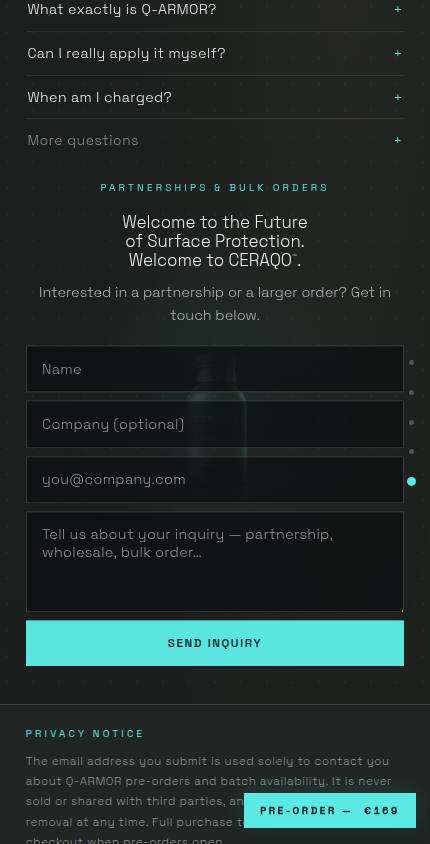
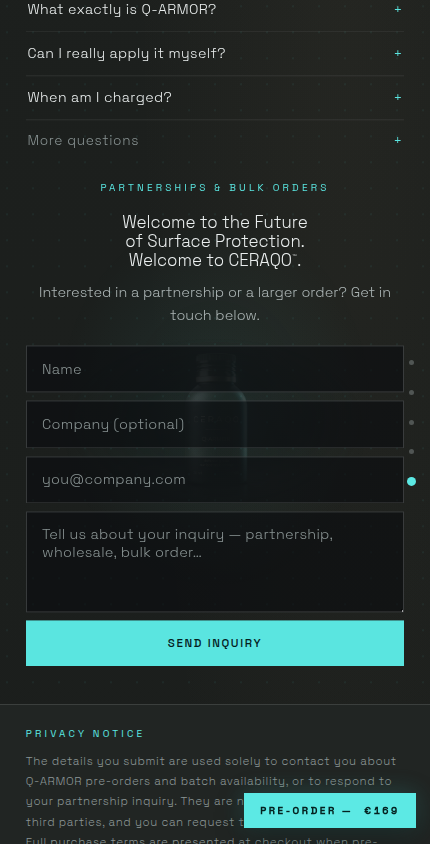
Copy corrections: de-silane, 6-year framing, email-less pre-order block
- "silane" removed site-wide: category prose and FAQ now read "a newly
  developed product ..."; meta description updated; README aligned.
- Every "72 months" is now "6 years" (gauge value/unit/label, compare
  row, footnote, lattice zone caption, FAQ answer); asterisk footnotes
  kept. Competitor "24-60 months" row intentionally untouched.
- Pre-order block (Batch 001, after pricing): email field removed
  entirely. With PREORDER_URL set the direct checkout link renders as
  before; while it is empty the button renders disabled with
  "Pre-orders for Batch 001 open shortly — payment is taken at
  checkout." No email-capture code or copy remains there; the
  partnership form at the bottom is untouched.
- Bottle-label wording (30ml / defense-grade / n° 001) confirmed baked
  into the rendered imagery, not DOM text — no code change possible;
  affected files reported separately.
- QA retuned: email-less pre-order assertions, privacy test via
  footer link, buy-button count, 6-year copy manifest. 24/24 pass.

Claude-Session: https://claude.ai/code/session_01KBNgdLRVpeefJZbYuM7ETb

Changed region(s): [[0.0605, 0.8934, 0.907, 1.0]]

diff --git a/src/components/PostDive.tsx b/src/components/PostDive.tsx
@@ -106,7 +106,7 @@ const COMPARE_ROWS: { label: string; q: string; pro: string }[] = [
   },
   {
     label: 'Protection window',
-    q: 'Up to 72 months*',
+    q: 'Up to 6 years*',
     pro: 'Commonly 24–60 months, tier dependent',
   },
   {
@@ -124,7 +124,7 @@ const COMPARE_ROWS: { label: string; q: string; pro: string }[] = [
 const FAQ_PRIMARY: { q: string; a: string }[] = [
   {
     q: 'What exactly is Q-ARMOR?',
-    a: 'A newly developed silane chemistry — not a wax, not another ceramic coating. It bonds with your paint and outperforms premium ceramic coatings in hardness and durability.',
+    a: 'A newly developed product — not a wax, not another ceramic coating. It bonds with your paint and outperforms premium ceramic coatings in hardness and durability.',
   },
   {
     q: 'Can I really apply it myself?',
@@ -134,14 +134,14 @@ const FAQ_PRIMARY: { q: string; a: string }[] = [
     q: 'When am I charged?',
     a: PREORDER_URL
       ? 'At checkout, the moment you place your pre-order. Your order secures your spot in Batch 001.'
-      : 'At checkout, once pre-orders open. Until then, your email holds your place in Batch 001.',
+      : 'At checkout, once pre-orders open for Batch 001.',
   },
 ];
 
 const FAQ_MORE: { q: string; a: string }[] = [
   {
     q: 'How long does the protection last?',
-    a: 'Up to 72 months, depending on preparation, environment and washing routine.',
+    a: 'Up to 6 years, depending on preparation, environment and washing routine.',
   },
   {
     q: 'How hard is the cured layer?',
@@ -239,9 +239,6 @@ function BuyButton() {
 
 export default function PostDive() {
   const rootRef = useRef<HTMLDivElement>(null);
-  const [email, setEmail] = useState('');
-  const [joined, setJoined] = useState(false);
-  const [error, setError] = useState<string | null>(null);
   const [rowsOpen, setRowsOpen] = useState(startOpen);
   const [fitOpen, setFitOpen] = useState(startOpen);
   const [factorsOpen, setFactorsOpen] = useState(startOpen);
@@ -298,24 +295,6 @@ export default function PostDive() {
     return () => ctx.revert();
   }, []);
 
-  const submit = (e: FormEvent) => {
-    e.preventDefault();
-    const ok = /^[^\s@]+@[^\s@]+\.[^\s@]{2,}$/.test(email.trim());
-    if (!ok) {
-      setError('Enter a valid email address.');
-      return;
-    }
-    setError(null);
-    try {
-      const list = JSON.parse(localStorage.getItem('ceraqo-waitlist') ?? '[]') as string[];
-      list.push(email.trim());
-      localStorage.setItem('ceraqo-waitlist', JSON.stringify(list));
-    } catch {
-      /* storage unavailable — the confirmation still stands */
-    }
-    setJoined(true);
-  };
-
   // Placeholder capture: stored in the visitor's browser only until a
   // real destination (inbox / form service) is confirmed and wired.
   const submitInquiry = (e: FormEvent) => {
@@ -354,7 +333,7 @@ export default function PostDive() {
             </p>
             <p className="prose reveal">
               Q-ARMOR changes everything. Not a reformulated wax. Not another ceramic
-              coating. A newly developed silane chemistry that becomes part of your paint —
+              coating. A newly developed product that becomes part of your paint —
               engineered to outperform premium ceramic coatings.
             </p>
             <p className="prose prose--turn reveal">
@@ -397,7 +376,7 @@ export default function PostDive() {
         </h2>
         <div className="specs2">
           <div className="specs2__data stagger">
-            <Gauge frac={1} value="72" unit="months" label="Up to 72 Months Protection*" />
+            <Gauge frac={1} value="6" unit="years" label="Up to 6 Years Protection*" />
             <Gauge frac={1} value="9H" unit="hardness" label="Up to 9H Pencil Hardness" />
           </div>
           <div className="specs2__grid stagger">
@@ -447,8 +426,8 @@ export default function PostDive() {
 
         <div className="footnote reveal">
           <p className="footnote__line">
-            Under suitable conditions, Q-ARMOR is designed to provide protection for up to 72
-            months.<sup className="asterisk">*</sup>
+            Under suitable conditions, Q-ARMOR is designed to provide protection for up to 6
+            years.<sup className="asterisk">*</sup>
           </p>
           <div className="factors__label micro">
             * Dependent factors
@@ -542,37 +521,19 @@ export default function PostDive() {
                 Payment is taken at checkout. Your order secures your spot in Batch 001.
               </p>
             </>
-          ) : joined ? (
-            <div className="waitlist__ok" role="status">
-              You’re on the list for Batch 001. We’ll be in touch before it ships.
-            </div>
           ) : (
+            // No email capture and no live checkout yet: the button
+            // waits, disabled, for the PREORDER_URL switch. Its interim
+            // behaviour is the client's decision — not invented here.
             <>
-              <form className="waitlist__form" onSubmit={submit} noValidate>
-                <input
-                  className="waitlist__input"
-                  type="email"
-                  name="email"
-                  placeholder="you@example.com"
-                  aria-label="Email address"
-                  value={email}
-                  onChange={(e) => setEmail(e.target.value)}
-                  required
-                />
-                <button className="waitlist__btn" type="submit">
-                  Pre-order — €169
-                </button>
-              </form>
-              <p className="waitlist__note" role={error ? 'alert' : undefined}>
-                {error ??
-                  'Payment is taken at checkout once pre-orders open — your email secures your place in Batch 001.'}
+              <button type="button" className="buybtn" disabled>
+                Pre-order — €169
+              </button>
+              <p className="waitlist__note">
+                Pre-orders for Batch 001 open shortly — payment is taken at checkout.
               </p>
             </>
           )}
-          <p className="waitlist__legal">
-            Your address is used only to contact you about Batch 001 — never shared, never
-            sold. <a className="waitlist__legal-link" href="#privacy">Privacy notice</a>
-          </p>
           {!batchOpen && (
             <button type="button" className="expander" onClick={() => setBatchOpen(true)}>
               How the batch model works

diff --git a/qa/scrub.spec.ts b/qa/scrub.spec.ts
@@ -352,7 +352,7 @@ test('post-dive: specs, launch line and waitlist render', async ({ page }) => {
   await page.waitForTimeout(900);
   await expect(page.locator('.scard__label', { hasText: 'Up to 9H Pencil Hardness' })).toBeVisible();
   await expect(page.getByText(/One bottle\. One car\./)).toBeVisible();
-  await expect(page.locator('.preorder .waitlist__btn')).toHaveText('Pre-order — €169');
+  await expect(page.locator('.preorder .buybtn')).toHaveText('Pre-order — €169');
   await page.screenshot({ path: 'qa/post-sections.png', fullPage: false });
 });
 
@@ -454,7 +454,7 @@ test('copy: every approved line is on the page, verbatim', async ({ page }) => {
     'Batch 001',
     'Numbered batches of 20,000 bottles. A new batch every two months.',
     'a production schedule, not artificial scarcity',
-    'Payment is taken at checkout once pre-orders open — your email secures your place in Batch 001.',
+    'Pre-orders for Batch 001 open shortly — payment is taken at checkout.',
     'Before You Pre-order',
     'When am I charged?',
     'Privacy notice',
@@ -464,13 +464,13 @@ test('copy: every approved line is on the page, verbatim', async ({ page }) => {
     'Professional Results. Made for Everyone.',
     'Four steps. About an hour. No experience needed.',
     'That’s all — professional-grade protection has never been this accessible.',
-    'Up to 72 Months Protection*',
+    'Up to 6 Years Protection*',
     'Simple DIY Application',
     'Deep Gloss. Crystal Clear Finish.',
     'No heavy residues. No artificial shine.',
     'Easy Maintenance. Less Cleaning. More Driving.',
     'Water, dirt and oil struggle to stick.',
-    'Under suitable conditions, Q-ARMOR is designed to provide protection for up to 72 months.*',
+    'Under suitable conditions, Q-ARMOR is designed to provide protection for up to 6 years.*',
     'One Kit. Everything Included.',
     'Everything required. Nothing extra.',
     'One kit protects up to two large vehicles.',
@@ -490,7 +490,7 @@ test('copy: every approved line is on the page, verbatim', async ({ page }) => {
     '35–50 ml protects an entire car.',
     'Wipe on. Buff. Cures at ambient temperature.',
     'A covalent bond with the paint. It cannot flake off or be washed off.',
-    'Hardness up to 9H. Effective for up to 72 months.',
+    'Hardness up to 9H. Effective for up to 6 years.',
   ]) {
     await expect(page.locator('.overlay--zone', { hasText: fact })).toHaveCount(1);
   }
@@ -524,9 +524,8 @@ test('inline buy CTA: consistent label everywhere, glides to the pre-order block
   // CTA is the pre-order form's submit button. Every buy control
   // carries the identical label.
   const buys = page.locator('.buybtn');
-  await expect(buys).toHaveCount(1);
-  await expect(buys.first()).toHaveText('Pre-order — €169');
-  await expect(page.locator('.preorder .waitlist__btn')).toHaveText('Pre-order — €169');
+  await expect(buys).toHaveCount(2); // end of Proof + the (disabled) block button
+  for (let i = 0; i < 2; i++) await expect(buys.nth(i)).toHaveText('Pre-order — €169');
   await buys.first().scrollIntoViewIfNeeded();
   await buys.first().click();
   await page.waitForTimeout(2200);
@@ -538,12 +537,15 @@ test('inline buy CTA: consistent label everywhere, glides to the pre-order block
   expect(inView, 'buy button glides to the pre-order block').toBe(true);
 });
 
-test('waitlist mechanics still work (now in the value section)', async ({ page }) => {
+test('pre-order block: no email capture, direct-action button waits on checkout', async ({ page }) => {
   await waitForStart(page);
-  await page.locator('.waitlist__input').scrollIntoViewIfNeeded();
-  await page.locator('.waitlist__input').fill('driver@example.com');
-  await page.locator('.preorder .waitlist__btn').click();
-  await expect(page.locator('.waitlist__ok')).toContainText('You’re on the list for Batch 001.');
+  await page.locator('#s-preorder').scrollIntoViewIfNeeded();
+  // No input of any kind inside the consumer pre-order block
+  await expect(page.locator('#s-preorder input, #s-preorder textarea')).toHaveCount(0);
+  const btn = page.locator('.preorder .buybtn');
+  await expect(btn).toHaveText('Pre-order — €169');
+  await expect(btn).toBeDisabled();
+  await expect(page.locator('.preorder .waitlist__note')).toContainText('payment is taken at checkout');
 });
 
 test('partnership form: validates, submits, confirms', async ({ page }) => {
@@ -580,10 +582,8 @@ test('faq: every question opens and answers carry no new claims markers', async 
   }
 });
 
-test('privacy: form links to the notice and the notice exists', async ({ page }) => {
+test('privacy: notice exists and the footer links to it', async ({ page }) => {
   await waitForStart(page);
-  await page.locator('.waitlist__legal-link').scrollIntoViewIfNeeded();
-  await expect(page.locator('.waitlist__legal-link')).toHaveAttribute('href', '#privacy');
   await expect(page.locator('#privacy .legal__text')).toContainText('never sold or shared');
   await expect(page.locator('.footer__link')).toHaveAttribute('href', '#privacy');
 });
@@ -660,18 +660,17 @@ for (const width of [375, 390, 430]) {
       });
       expect(gaugeFits, 'gauge unit text fits its card').toBe(true);
 
-      // Floating CTA must not cover the pre-order form controls
-      await page.locator('.waitlist__form').scrollIntoViewIfNeeded();
+      // Floating CTA must not cover the buy button or the inquiry submit
+      await page.locator('.preorder .buybtn').scrollIntoViewIfNeeded();
       await page.waitForTimeout(600);
       const clear = await page.evaluate(() => {
         const cta = document.querySelector('.cta__btn')!.getBoundingClientRect();
         const overlaps = (r: DOMRect) =>
           cta.left < r.right && cta.right > r.left && cta.top < r.bottom && cta.bottom > r.top;
-        const form = document.querySelector('.waitlist__form')!.getBoundingClientRect();
-        const legal = document.querySelector('.waitlist__legal')!.getBoundingClientRect();
-        return !overlaps(form) && !overlaps(legal);
+        const buy = document.querySelector('.preorder .buybtn')!.getBoundingClientRect();
+        return !overlaps(buy);
       });
-      expect(clear, 'floating CTA does not cover the form or its legal line').toBe(true);
+      expect(clear, 'floating CTA does not cover the pre-order button').toBe(true);
 
       // The dot rail replaces the labelled pagenav below 1080px
       await page.locator('#s-specs').scrollIntoViewIfNeeded();

diff --git a/index.html b/index.html
@@ -7,7 +7,7 @@
     <meta name="theme-color" content="#1d201e" />
     <meta
       name="description"
-      content="Not a wax. Not another ceramic coating. Q-ARMOR is a newly developed silane chemistry that bonds covalently with your paint — professional-grade protection, self-applied. €169 per kit, produced in batches of 20,000 bottles."
+      content="Not a wax. Not another ceramic coating. Q-ARMOR is a newly developed product that bonds covalently with your paint — professional-grade protection, self-applied. €169 per kit, produced in batches of 20,000 bottles."
     />
     <meta property="og:title" content="CERAQO™ Q-ARMOR — Advanced Surface Protection" />
     <meta

diff --git a/src/styles/site.css b/src/styles/site.css
@@ -2578,3 +2578,14 @@ a.waitlist__btn {
     font-size: 0.9rem;
   }
 }
+
+/* Direct-action pre-order button waiting on the checkout switch */
+.buybtn:disabled {
+  opacity: 0.55;
+  cursor: default;
+  box-shadow: none;
+}
+
+.buybtn:disabled:hover {
+  background: var(--c-cyan);
+}

diff --git a/src/data/zones.ts b/src/data/zones.ts
@@ -45,7 +45,7 @@ export const ZONES: Zone[] = [
     id: 'lattice',
     label: 'LATTICE',
     kicker: 'The lattice',
-    fact: 'Hardness up to 9H. Effective for up to 72 months.',
+    fact: 'Hardness up to 9H. Effective for up to 6 years.',
   },
 ];
 

diff --git a/README.md b/README.md
@@ -1,6 +1,6 @@
 # CERAQO — Q-ARMOR
 
-A cinematic "3D scroll" launch site for **Q-ARMOR**, CERAQO's silane-based quartz
+A cinematic "3D scroll" launch site for **Q-ARMOR**, CERAQO's newly developed quartz
 ceramic coating. Scrolling down *is* zooming in: one unbroken dive from the
 bottle on the table (1×) into the quartz lattice of the cured coating
 (1,000,000×), rendered as a scroll-scrubbed canvas frame sequence.
